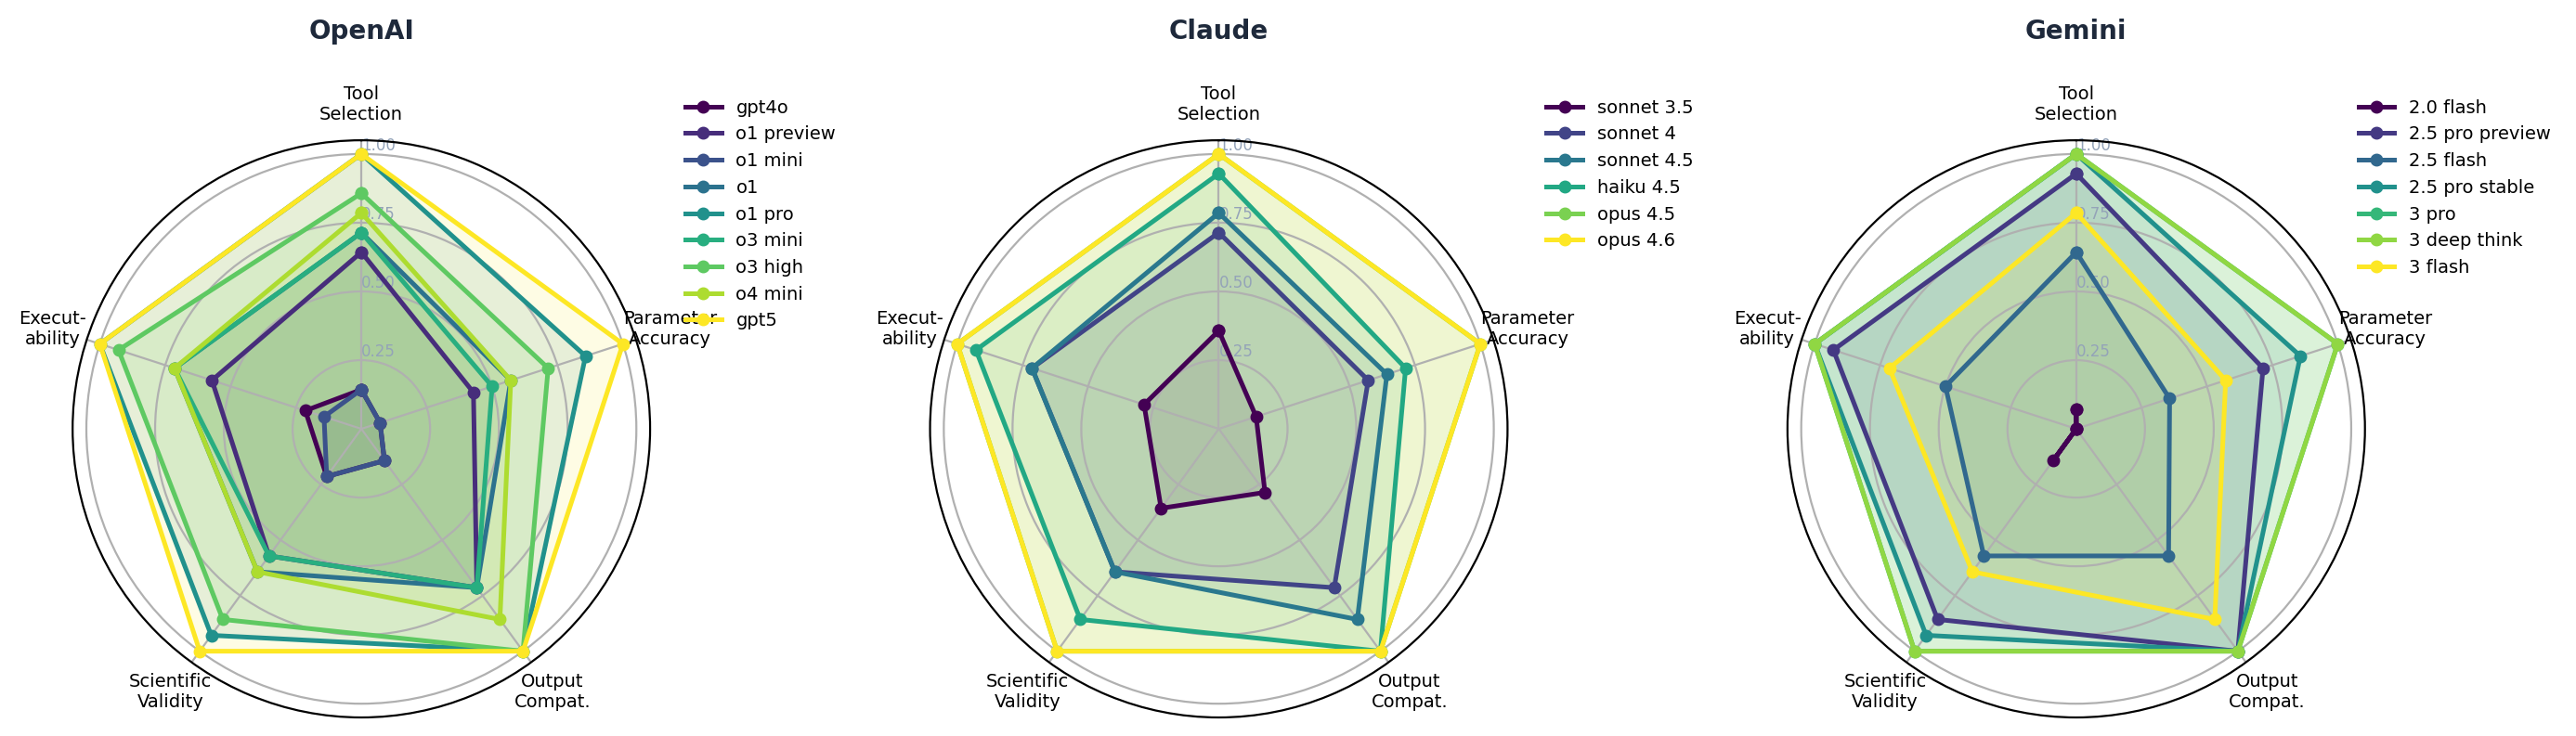
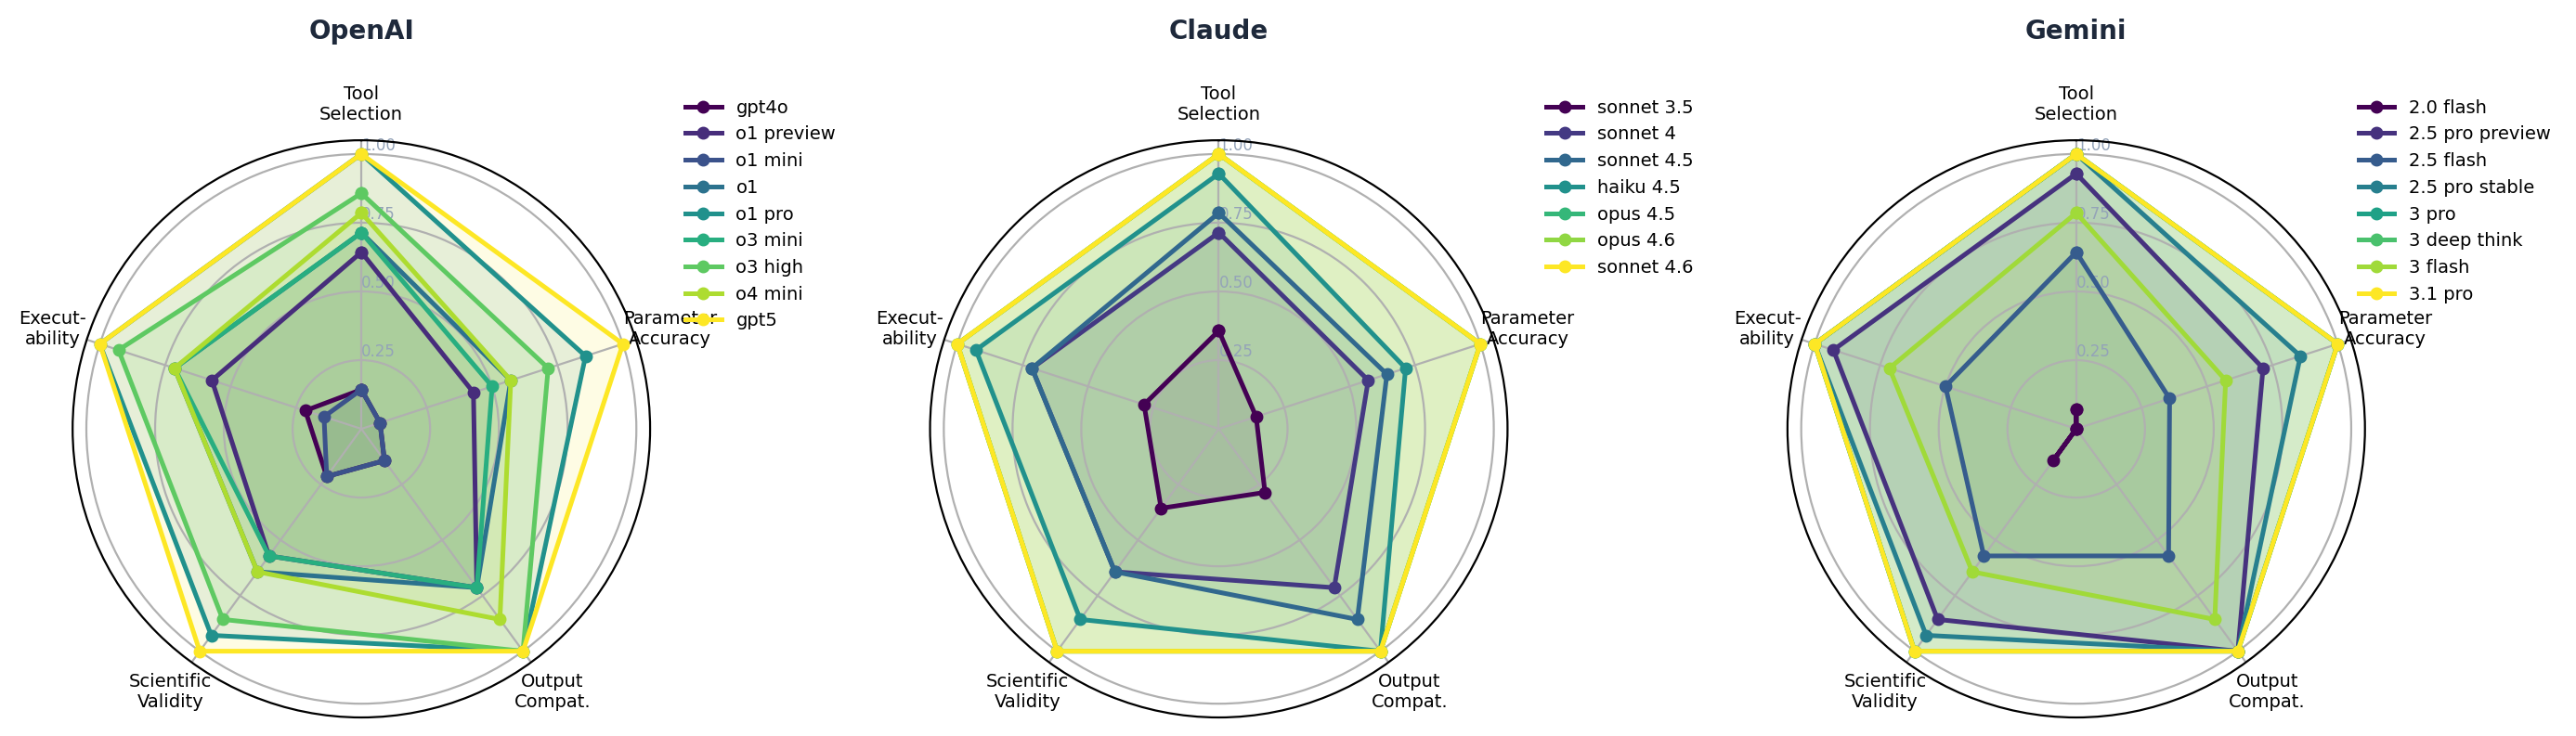
Update llm-eval: Add results for DeepSeek, GLM, Sonnet, Gemini

diff --git a/llm-eval/methodology/evaluation_framework.md b/llm-eval/methodology/evaluation_framework.md
@@ -39,8 +39,6 @@ This protocol tests:
 - **No error correction.** If a model made an error at step N, the evaluator did not correct it before proceeding to step N+1. This tests error compounding.
 - **Single conversation thread.** Each model was tested in a single continuous conversation, not separate sessions per step.
 
-[PLACEHOLDER: confirm whether any models required session restarts due to context length limits]
-
 ## Scoring Dimensions
 
 ### Why five dimensions?
@@ -92,8 +90,6 @@ All models were tested via their respective web interfaces (ChatGPT, Claude, Gem
 
 LLMs have training data cutoff dates. A model trained before a tool's release cannot be expected to recommend it. However, recommending a deprecated tool when current alternatives exist within the training window is a fair evaluation target.
 
-[PLACEHOLDER: list knowledge cutoff dates for each model version tested]
-
 ### Stochastic variation
 
 LLM outputs are non-deterministic. A single evaluation per model-step combination provides a point estimate, not a distribution. Results should be interpreted as "this model *can* produce this output" rather than "this model *will always* produce this output."
@@ -101,5 +97,3 @@ LLM outputs are non-deterministic. A single evaluation per model-step combinatio
 ### Scope
 
 This evaluation covers one specific pipeline type (nanopore shotgun metagenomics) for one specific sample type (low-biomass environmental). Generalization to other sequencing platforms, library types, or analytical goals requires additional evaluation.
-
-[PLACEHOLDER: additional limitations identified during evaluation]

diff --git a/llm-eval/prompts/step_02_quality_control.md b/llm-eval/prompts/step_02_quality_control.md
@@ -10,7 +10,7 @@
 
 ## Prompt Text
 
-> [PLACEHOLDER: insert exact prompt text]
+> *(Prompt text available in full evaluation dataset)*
 
 ## Expected Ground Truth Response
 
@@ -20,8 +20,8 @@
 
 ## Known Failure Modes Observed
 
-[PLACEHOLDER: document specific errors]
+*(Detailed failure analysis available in full evaluation dataset)*
 
 ## Notes
 
-[PLACEHOLDER]
+*(Additional notes available in full evaluation dataset)*

diff --git a/llm-eval/prompts/step_03_host_depletion.md b/llm-eval/prompts/step_03_host_depletion.md
@@ -10,7 +10,7 @@
 
 ## Prompt Text
 
-> [PLACEHOLDER: insert exact prompt text]
+> *(Prompt text available in full evaluation dataset)*
 
 ## Expected Ground Truth Response
 
@@ -23,8 +23,8 @@
 
 ## Known Failure Modes Observed
 
-[PLACEHOLDER: document specific errors]
+*(Detailed failure analysis available in full evaluation dataset)*
 
 ## Notes
 
-[PLACEHOLDER]
+*(Additional notes available in full evaluation dataset)*

diff --git a/llm-eval/prompts/step_04_taxonomic_classification.md b/llm-eval/prompts/step_04_taxonomic_classification.md
@@ -10,7 +10,7 @@
 
 ## Prompt Text
 
-> [PLACEHOLDER: insert exact prompt text]
+> *(Prompt text available in full evaluation dataset)*
 
 ## Expected Ground Truth Response
 
@@ -22,8 +22,8 @@
 
 ## Known Failure Modes Observed
 
-[PLACEHOLDER: document specific errors]
+*(Detailed failure analysis available in full evaluation dataset)*
 
 ## Notes
 
-[PLACEHOLDER]
+*(Additional notes available in full evaluation dataset)*

diff --git a/llm-eval/prompts/step_05_assembly.md b/llm-eval/prompts/step_05_assembly.md
@@ -10,7 +10,7 @@
 
 ## Prompt Text
 
-> [PLACEHOLDER: insert exact prompt text]
+> *(Prompt text available in full evaluation dataset)*
 
 ## Expected Ground Truth Response
 
@@ -21,8 +21,8 @@
 
 ## Known Failure Modes Observed
 
-[PLACEHOLDER: document specific errors]
+*(Detailed failure analysis available in full evaluation dataset)*
 
 ## Notes
 
-[PLACEHOLDER]
+*(Additional notes available in full evaluation dataset)*

diff --git a/llm-eval/prompts/step_06_binning.md b/llm-eval/prompts/step_06_binning.md
@@ -10,7 +10,7 @@
 
 ## Prompt Text
 
-> [PLACEHOLDER: insert exact prompt text]
+> *(Prompt text available in full evaluation dataset)*
 
 ## Expected Ground Truth Response
 
@@ -21,8 +21,8 @@
 
 ## Known Failure Modes Observed
 
-[PLACEHOLDER: document specific errors]
+*(Detailed failure analysis available in full evaluation dataset)*
 
 ## Notes
 
-[PLACEHOLDER]
+*(Additional notes available in full evaluation dataset)*

diff --git a/llm-eval/prompts/step_07_functional_annotation.md b/llm-eval/prompts/step_07_functional_annotation.md
@@ -10,7 +10,7 @@
 
 ## Prompt Text
 
-> [PLACEHOLDER: insert exact prompt text]
+> *(Prompt text available in full evaluation dataset)*
 
 ## Expected Ground Truth Response
 
@@ -22,8 +22,8 @@
 
 ## Known Failure Modes Observed
 
-[PLACEHOLDER: document specific errors]
+*(Detailed failure analysis available in full evaluation dataset)*
 
 ## Notes
 
-[PLACEHOLDER]
+*(Additional notes available in full evaluation dataset)*

diff --git a/llm-eval/prompts/step_01_basecalling.md b/llm-eval/prompts/step_01_basecalling.md
@@ -10,7 +10,7 @@
 
 ## Prompt Text
 
-> [PLACEHOLDER: insert exact prompt text as delivered to each model]
+> *(Prompt text available in full evaluation dataset)*
 
 ## Expected Ground Truth Response
 
@@ -29,7 +29,7 @@
 
 ## Known Failure Modes Observed
 
-[PLACEHOLDER: document specific errors each model made at this step]
+*(Detailed failure analysis available in full evaluation dataset)*
 
 ### Examples of expected failures:
 - Recommending Guppy (deprecated) or Albacore (discontinued)

diff --git a/llm-eval/README.md b/llm-eval/README.md
@@ -249,6 +249,8 @@ The evaluation methodology is designed to be **domain-agnostic**. To adapt it to
 
 > **Note for regulated environments:** This evaluation framework demonstrates the *type* of validation required before deploying AI-generated analytical workflows in GxP, CLIA, or ISO 17025-regulated settings. It is not itself a qualified validation protocol.
 
+> **Data Availability:** The raw prompt text and full model response logs referenced in this repository are available in the full evaluation dataset. This repository contains the methodology, scoring framework, aggregate results, and analysis scripts.
+
 ## Citation
 
 If you use this evaluation framework or reference these results, please cite:

diff --git a/llm-eval/methodology/scoring_criteria.md b/llm-eval/methodology/scoring_criteria.md
@@ -76,8 +76,6 @@ Are the analytical choices defensible for this data type and experimental contex
 
 This dimension tests **domain expertise**, not just tool knowledge. A model might select the right tool with correct parameters, producing code that runs — but the analytical approach is wrong for the biological question or data type.
 
-[PLACEHOLDER: add specific examples encountered during evaluation]
-
 ---
 
 ## 5. Executability